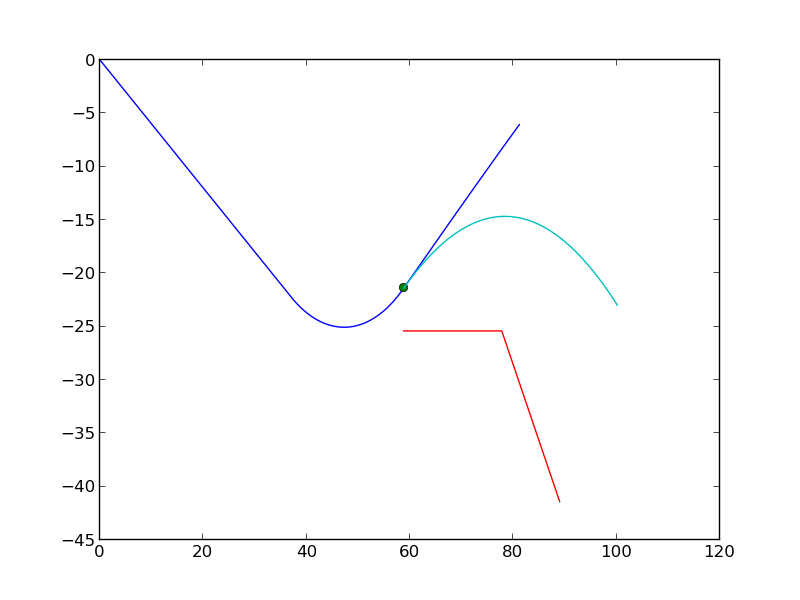
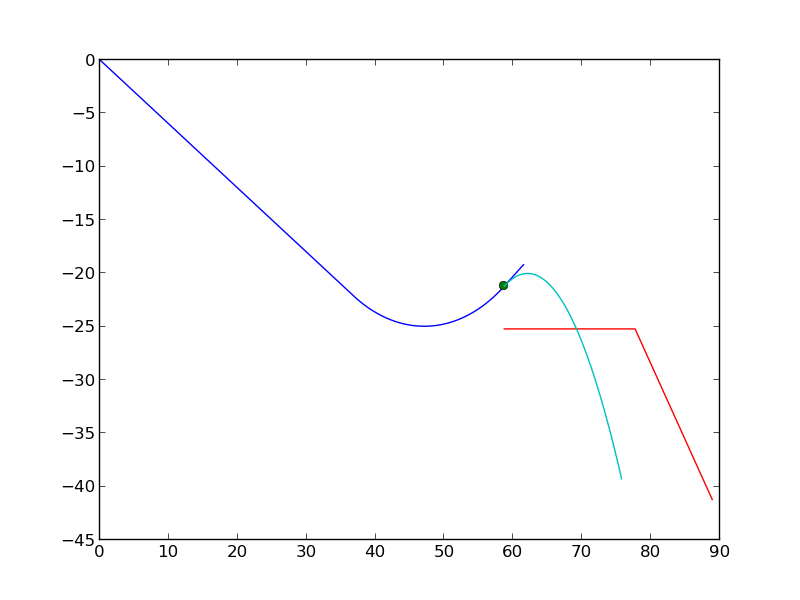
correct

diff --git a/lahti/inrun.py b/lahti/inrun.py
@@ -5,10 +5,10 @@ from scipy import *
 import pylab
 import lento
 #constants
-D=0#1.	#airresistance crossectional constant
+D=1.	#airresistance crossectional constant
 g=9.81	#gravity
 m=80	#average mass of rider
-C=0#.055	#friction coefficient
+C=.055	#friction coefficient
 A=D/m#	#airresistant coefficient
 radius=20.	#this is global constant, radius of the transitions
 runangle=31.*2.*pi/360.		#angle of the inrun, straight section
